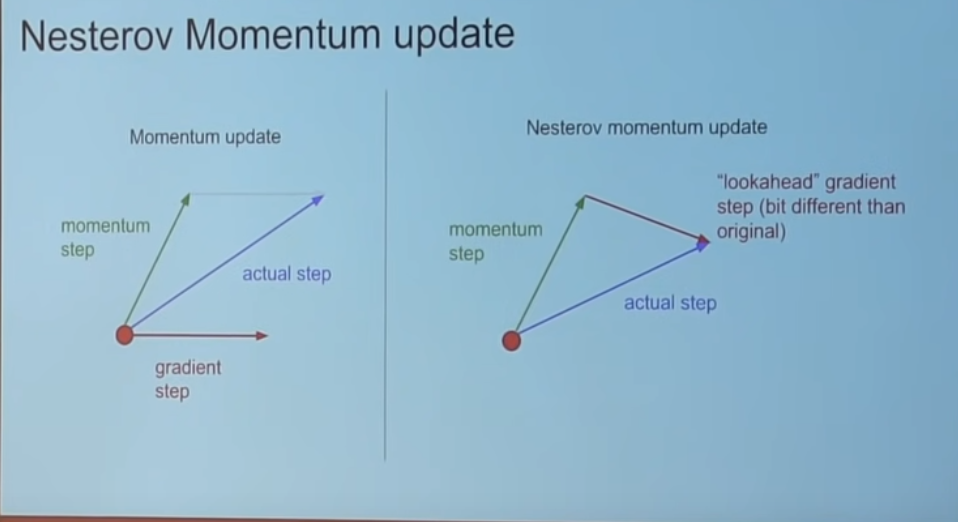
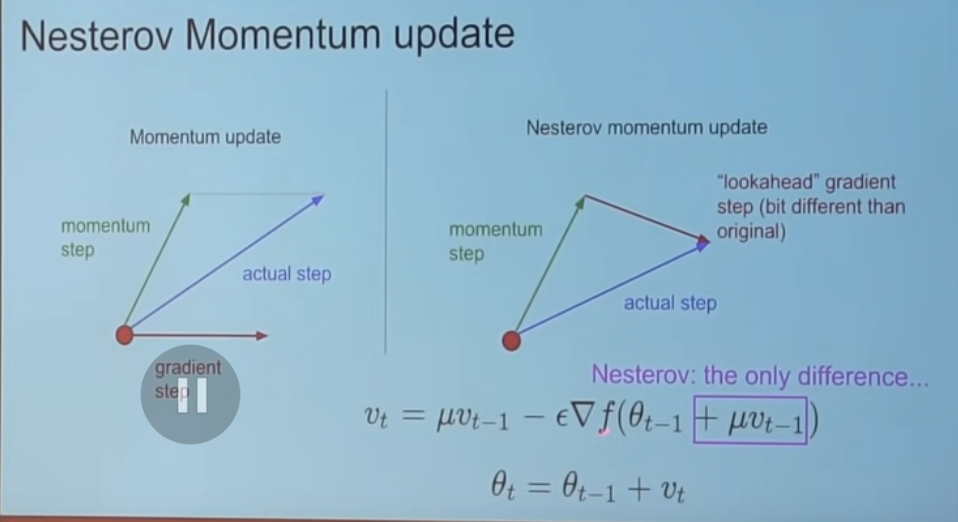
vault backup: 2024-02-16 13:17:44

diff --git a/Marcin/ML/Neural Networks/Optimization/Stochastic Gradient Descent with Nesterov Momentum.md b/Marcin/ML/Neural Networks/Optimization/Stochastic Gradient Descent with Nesterov Momentum.md
@@ -4,4 +4,6 @@ Ulepszenie [[Stochastic Gradient Descent with Momentum]]
 
 ![[Stochastic Gradient Descent with Nesterov Momentum.png]]
 
-Idea jest taka, że sko
+Idea jest taka, że skoro wiemy z momentum że pójdziemy dalej, to policzmy gradient w tamtym punkcie do którego pójdziemy i wykonajmy krok z informacją "przyszłą".
+
+Podobno zawsze lepszy niż standardowe SGD z momentum.
